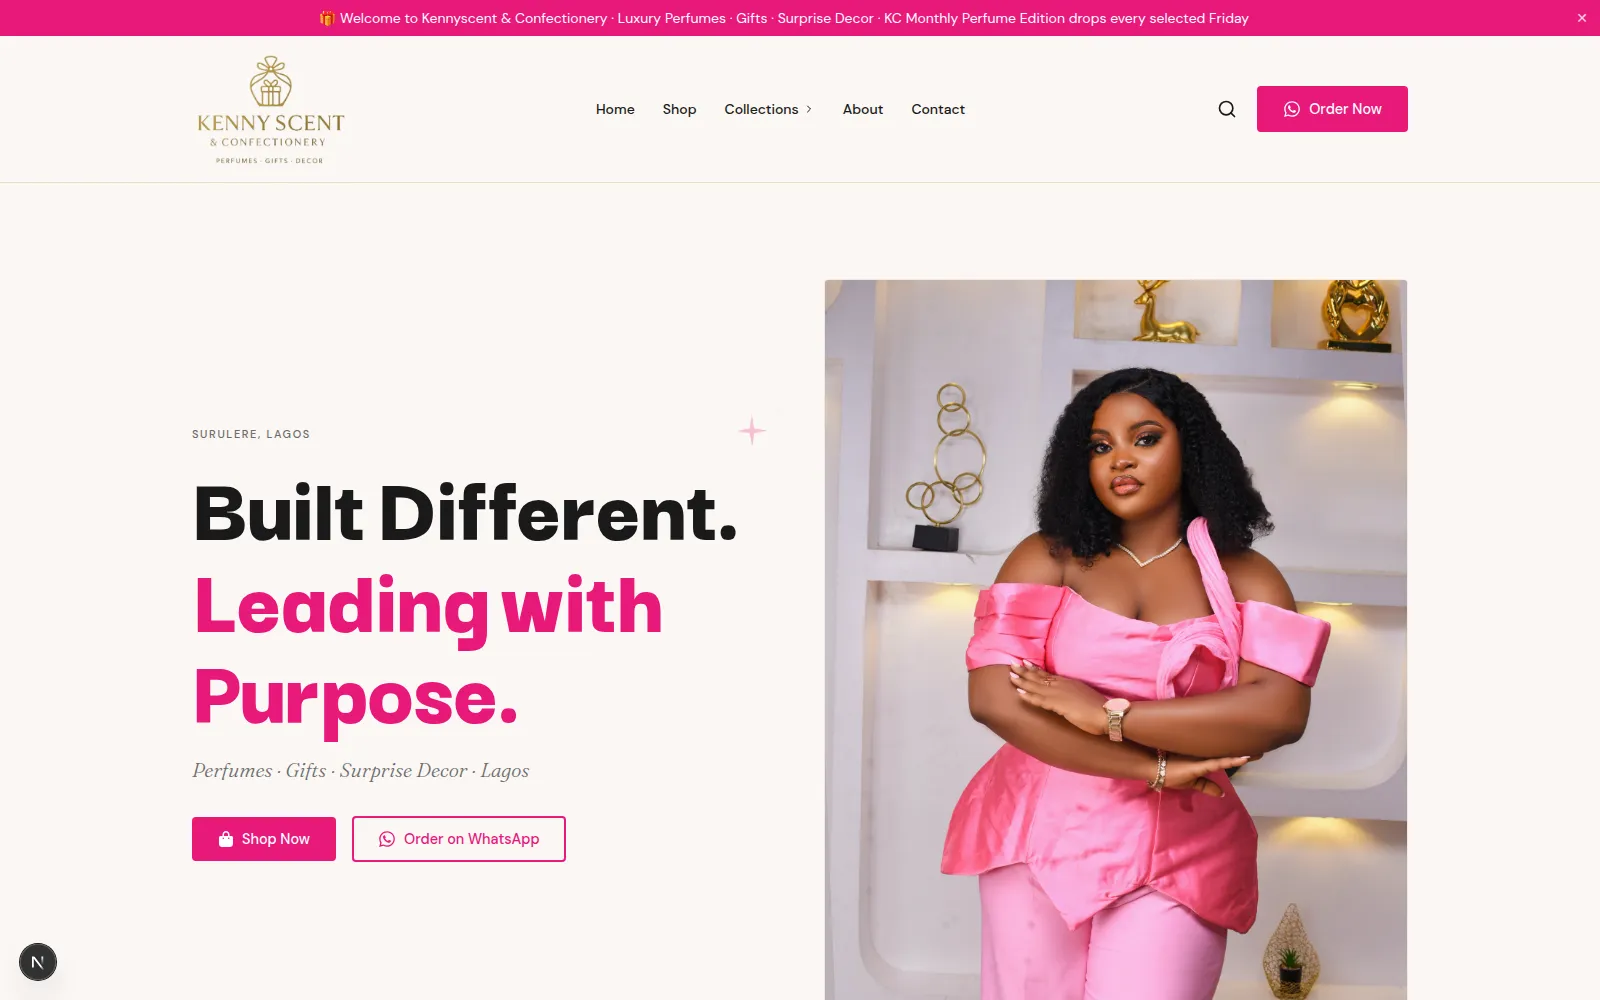
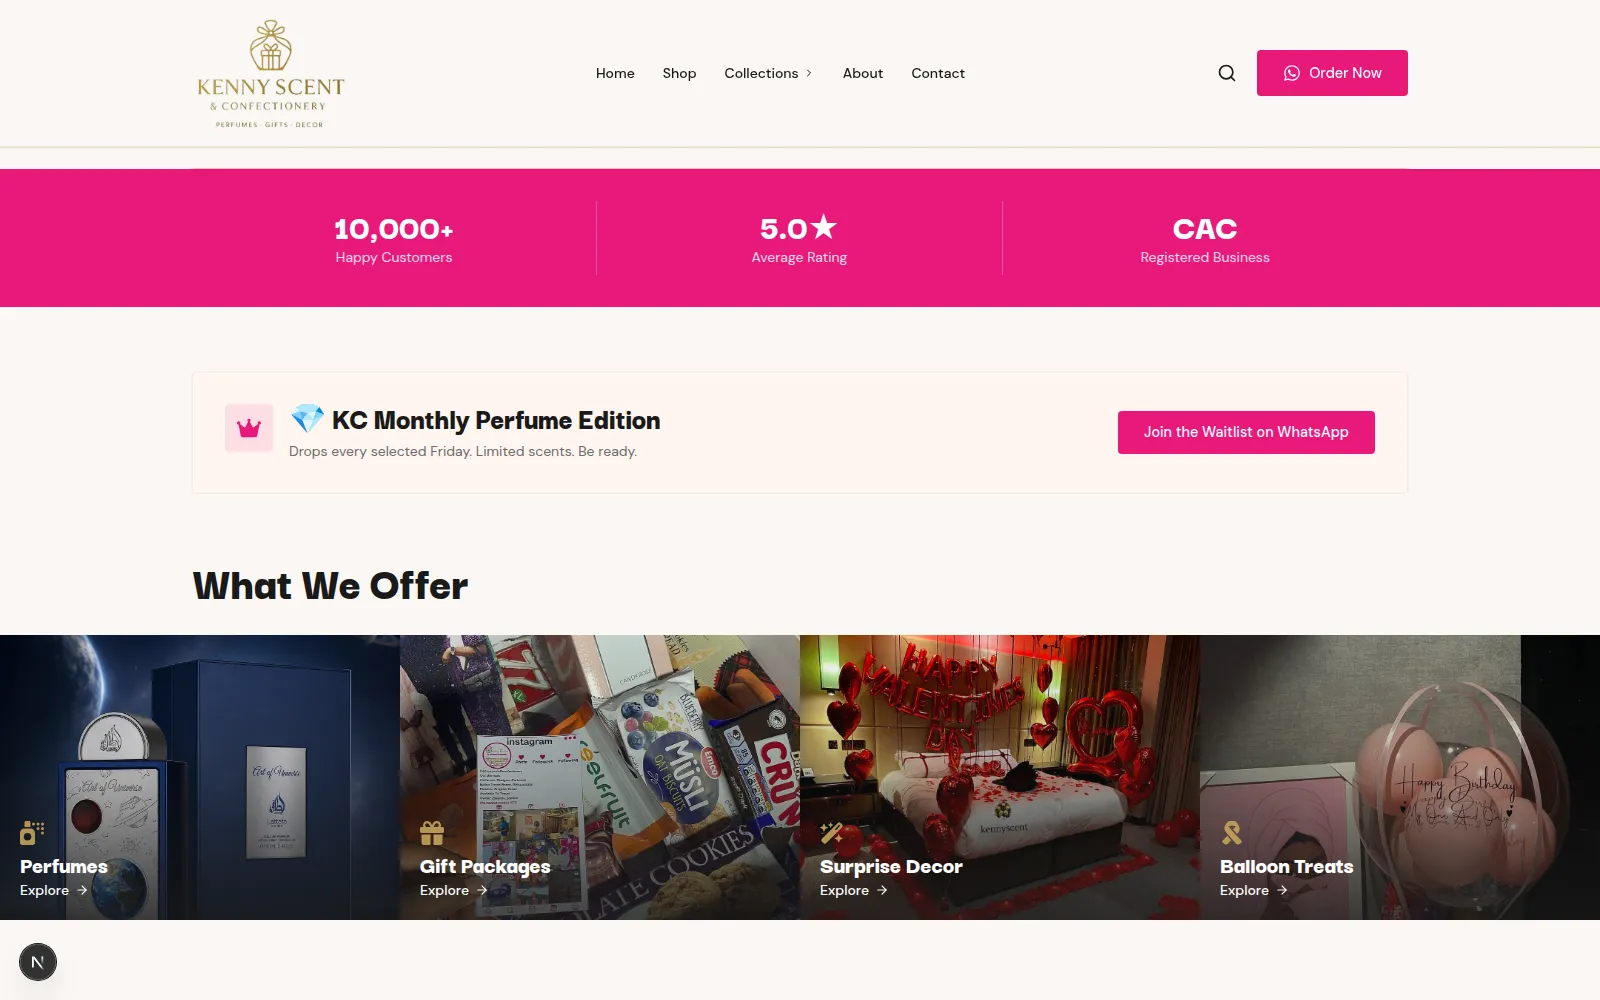
Feature pills on project cards, swap tools list, reshoot Kennyscent, move Obsidian up
- Project card pills now describe what each project does (bill payments,
  online booking, AI assistant) instead of listing frameworks
- About tools: drop Framer Motion, GSAP, Vercel, GitHub, Cloudflare;
  add Python, PHP, Laravel
- Kennyscent screenshots re-framed on the What We Offer section and
  stats bar instead of the owner's portrait
- Obsidian SaaS Admin moved up above the demo-site cluster

diff --git a/data/projects.ts b/data/projects.ts
@@ -31,7 +31,7 @@ export type Project = {
   featured: boolean;
   link: string;
   description: string;
-  stack: string[];
+  highlights: string[];
   desktopImage: StaticImageData;
   phoneImage?: StaticImageData;
   imageAlt: string;
@@ -46,7 +46,7 @@ export const projects: Project[] = [
     link: "https://www.callphoneng.com/",
     description:
       "A digital payments platform for bill payments, airtime top-ups, and transactions, integrated with a REST API handling payments and user authentication.",
-    stack: ["React", "REST API", "Payments", "Authentication"],
+    highlights: ["Bill payments", "Airtime top-ups", "User accounts"],
     desktopImage: callphoneng,
     imageAlt:
       "Callphoneng digital payments platform showing bill payments and airtime top-up features",
@@ -58,7 +58,7 @@ export const projects: Project[] = [
     link: "https://salt-atlas.vercel.app/",
     description:
       "A county-level geospatial analytics platform for identifying high-opportunity supply chain regions across the United States. Interactive opportunity map, region filters, and a dashboard built for daily analysis.",
-    stack: ["Next.js", "TypeScript", "Interactive maps", "Data visualization"],
+    highlights: ["Interactive map", "Region filters", "Analytics dashboard"],
     desktopImage: saltAtlas,
     imageAlt:
       "Salt Atlas geospatial analytics platform with county-level opportunity map of the United States",
@@ -70,7 +70,7 @@ export const projects: Project[] = [
     link: "https://getbuttonapp.com/",
     description:
       "An event planner mobile app: hold one button, speak your plans out loud, and every event lands in your Google Calendar automatically. No typing, no tapping.",
-    stack: ["iOS & Android", "Voice input", "Google Calendar API"],
+    highlights: ["Voice input", "Auto calendar events", "iOS & Android"],
     desktopImage: buttonApp,
     imageAlt:
       "Button event planner mobile app screenshots showing voice-to-calendar planning",
@@ -82,7 +82,7 @@ export const projects: Project[] = [
     link: "https://kennyscent-and-confectionery.pages.dev/",
     description:
       "A full catalog site for a registered Lagos perfume and gifting business: shop by collection, product pages, live search, and orders routed straight to WhatsApp with no checkout friction.",
-    stack: ["Next.js", "Tailwind CSS", "WhatsApp ordering", "Framer Motion"],
+    highlights: ["Product catalog", "Live search", "WhatsApp ordering"],
     desktopImage: kennyscentDesktop,
     phoneImage: kennyscentPhone,
     imageAlt:
@@ -95,7 +95,7 @@ export const projects: Project[] = [
     link: "https://lagos-life.vercel.app/",
     description:
       "The website for a Nigerian cultural platform with a 112k+ following, covering events, people, and culture across Lagos.",
-    stack: ["Next.js", "Tailwind CSS", "SEO"],
+    highlights: ["Culture platform", "Events coverage", "112k+ audience"],
     desktopImage: lagosLife,
     imageAlt:
       "Lagos Life cultural platform website covering events and culture across Lagos",
@@ -107,11 +107,24 @@ export const projects: Project[] = [
     link: "https://ankara-world.pages.dev/",
     description:
       "The brand site for a Lagos label crafting handmade Ankara and Asooke bags since 2018. Smooth-scroll storytelling, featured collections, and editorial motion design that makes the craft the star.",
-    stack: ["Next.js", "GSAP", "Lenis smooth scroll", "Tailwind CSS"],
+    highlights: ["Brand storytelling", "Smooth scrolling", "Featured collections"],
     desktopImage: ankaraDesktop,
     phoneImage: ankaraPhone,
     imageAlt:
       "Ankara World fashion brand website with smooth-scroll storytelling and featured collections",
+  },
+  {
+    title: "Obsidian SaaS Admin",
+    category: "Web App",
+    featured: false,
+    link: "https://obsidian-saas-admin.vercel.app/",
+    description:
+      "A full-featured SaaS admin dashboard covering user management, analytics charts, notifications, and settings, structured for a real product.",
+    highlights: ["Analytics dashboard", "User management", "Notifications & settings"],
+    desktopImage: obsidianDesktop,
+    phoneImage: obsidianPhone,
+    imageAlt:
+      "Obsidian SaaS admin dashboard showing analytics widgets, task management, and responsive navigation",
   },
   {
     title: "Fred Realtors",
@@ -120,7 +133,7 @@ export const projects: Project[] = [
     link: "https://fred-realtors.vercel.app/",
     description:
       "A full real estate platform for a Lagos-based agency: property listings, area guides, filtering, inquiry forms, and an AI property assistant.",
-    stack: ["Next.js", "AI assistant", "Search & filters"],
+    highlights: ["Property listings", "AI property assistant", "Area guides"],
     desktopImage: fredRealtors,
     imageAlt:
       "Fred Realtors real estate website with property listings, area guides, and AI assistant",
@@ -132,7 +145,7 @@ export const projects: Project[] = [
     link: "https://the-nail-tech.vercel.app/",
     description:
       "An appointment booking website for a nail salon: service cards, pricing, and a direct booking flow that replaced phone-call back-and-forth.",
-    stack: ["Next.js", "Booking flow", "Tailwind CSS"],
+    highlights: ["Online booking", "Service menu", "Direct CTAs"],
     desktopImage: nailTechDesktop,
     phoneImage: nailTechPhone,
     imageAlt:
@@ -145,7 +158,7 @@ export const projects: Project[] = [
     link: "https://magxi-taste.vercel.app/",
     description:
       "The website for a fast food restaurant in Jos, Nigeria: menu, branding, and a proper online presence.",
-    stack: ["Next.js", "Tailwind CSS", "Branding"],
+    highlights: ["Digital menu", "Brand presence", "Local business"],
     desktopImage: magxiTaste,
     imageAlt: "Magxi Taste fast food restaurant website with menu and branding",
   },
@@ -156,24 +169,11 @@ export const projects: Project[] = [
     link: "https://workload-studios-estate.vercel.app/",
     description:
       "A luxury real estate platform with featured listings, advanced search, inquiry capture, and an admin dashboard for property and team management.",
-    stack: ["Next.js", "Admin dashboard", "Search & filters"],
+    highlights: ["Listings & search", "Admin dashboard", "Inquiry capture"],
     desktopImage: estateDesktop,
     phoneImage: estatePhone,
     imageAlt:
       "Workload Studios Estate real estate website displaying property listings with search and inquiry features",
-  },
-  {
-    title: "Obsidian SaaS Admin",
-    category: "Web App",
-    featured: false,
-    link: "https://obsidian-saas-admin.vercel.app/",
-    description:
-      "A full-featured SaaS admin dashboard covering user management, analytics charts, notifications, and settings, structured for a real product.",
-    stack: ["Next.js", "TypeScript", "Analytics charts"],
-    desktopImage: obsidianDesktop,
-    phoneImage: obsidianPhone,
-    imageAlt:
-      "Obsidian SaaS admin dashboard showing analytics widgets, task management, and responsive navigation",
   },
   {
     title: "Enterprise Admin UI",
@@ -182,7 +182,7 @@ export const projects: Project[] = [
     link: "https://enterprise-admin-ui.vercel.app/",
     description:
       "An internal admin panel with role-based authentication, task tracking, bulk actions, and priority breakdowns. Built as a scalable template for enterprise tools.",
-    stack: ["React", "Role-based auth", "Data tables"],
+    highlights: ["Role-based access", "Bulk actions", "CSV export"],
     desktopImage: enterpriseAdminDesktop,
     phoneImage: enterpriseAdminPhone,
     imageAlt:
@@ -195,7 +195,7 @@ export const projects: Project[] = [
     link: "",
     description:
       "A donation platform for a nonprofit, designed to make giving simple and to build trust with a clean, transparent layout.",
-    stack: ["Next.js", "Donation flow", "Tailwind CSS"],
+    highlights: ["Donation flow", "Campaign highlights", "Trust-first design"],
     desktopImage: hopebridgeDesktop,
     phoneImage: hopebridgePhone,
     imageAlt:
@@ -208,7 +208,7 @@ export const projects: Project[] = [
     link: "https://lexi-flow-ai.vercel.app/",
     description:
       "An AI-powered workflow tool with a focused conversation interface, session management, and a fast, responsive layout that works on any device.",
-    stack: ["Next.js", "AI integration", "Chat UI"],
+    highlights: ["AI chat interface", "Session management", "Works on any device"],
     desktopImage: lexiflowAi,
     imageAlt:
       "LexiFlow AI web application showing conversation interface and language processing features",
@@ -220,7 +220,7 @@ export const projects: Project[] = [
     link: "https://floor-hosting-alfred-ulu.vercel.app/",
     description:
       "A web hosting platform UI with pricing tiers, deployment management, and a clean marketing landing page.",
-    stack: ["Next.js", "Pricing UI", "Tailwind CSS"],
+    highlights: ["Pricing tiers", "Deployment dashboard", "Marketing pages"],
     desktopImage: floorHosting,
     imageAlt:
       "Floor Hosting web hosting platform with pricing tiers and deployment management",

diff --git a/components/AboutContent.tsx b/components/AboutContent.tsx
@@ -11,21 +11,19 @@ import {
 } from "lucide-react";
 import type { IconType } from "react-icons";
 import {
-  SiCloudflare,
   SiFigma,
   SiFlutter,
-  SiFramer,
-  SiGithub,
-  SiGreensock,
   SiJavascript,
   SiKotlin,
+  SiLaravel,
   SiNextdotjs,
   SiNodedotjs,
+  SiPhp,
+  SiPython,
   SiReact,
   SiSwift,
   SiTailwindcss,
   SiTypescript,
-  SiVercel,
 } from "react-icons/si";
 
 const fadeUp: Variants = {
@@ -74,15 +72,13 @@ const stack: { name: string; icon: IconType; color: string }[] = [
   { name: "TypeScript", icon: SiTypescript, color: "#3178C6" },
   { name: "JavaScript", icon: SiJavascript, color: "#F7DF1E" },
   { name: "Node.js", icon: SiNodedotjs, color: "#5FA04E" },
+  { name: "Python", icon: SiPython, color: "#3776AB" },
+  { name: "PHP", icon: SiPhp, color: "#777BB4" },
+  { name: "Laravel", icon: SiLaravel, color: "#FF2D20" },
   { name: "Tailwind CSS", icon: SiTailwindcss, color: "#06B6D4" },
   { name: "Flutter", icon: SiFlutter, color: "#02569B" },
   { name: "Kotlin", icon: SiKotlin, color: "#7F52FF" },
   { name: "Swift", icon: SiSwift, color: "#F05138" },
-  { name: "Framer Motion", icon: SiFramer, color: "#0055FF" },
-  { name: "GSAP", icon: SiGreensock, color: "#88CE02" },
-  { name: "Vercel", icon: SiVercel, color: "#000000" },
-  { name: "Cloudflare", icon: SiCloudflare, color: "#F38020" },
-  { name: "GitHub", icon: SiGithub, color: "#181717" },
   { name: "Figma", icon: SiFigma, color: "#F24E1E" },
 ];
 

diff --git a/components/PortfolioContent.tsx b/components/PortfolioContent.tsx
@@ -261,12 +261,12 @@ function ProjectCard({ project }: { project: Project }) {
         </p>
 
         <div className="mt-4 flex flex-wrap gap-1.5">
-          {project.stack.map((tech) => (
+          {project.highlights.map((feature) => (
             <span
-              key={tech}
+              key={feature}
               className="rounded-full bg-mist px-2.5 py-1 text-xs text-stone-500 ring-1 ring-black/5"
             >
-              {tech}
+              {feature}
             </span>
           ))}
         </div>